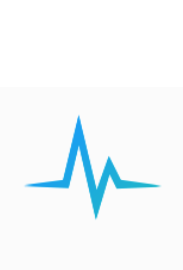
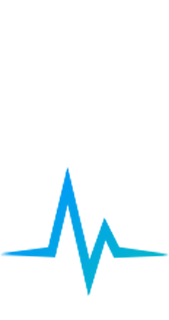
fix(onboarding): Minor asset tweaks

Changed region(s): [[0.0, 0.4148, 1.0, 0.9185]]

diff --git a/internal_packages/onboarding/lib/page-tutorial.jsx b/internal_packages/onboarding/lib/page-tutorial.jsx
@@ -7,7 +7,7 @@ const Steps = [
     id: 'people',
     title: 'Compose with context',
     image: 'feature-people@2x.png',
-    description: "N1 shows you everything about your contacts right inside your inbox. See LinkedIn profiles, Twitter bios, and more.",
+    description: "N1 shows you everything about your contacts right inside your inbox. See LinkedIn profiles, Twitter bios, message history, and more.",
     x: 96.6,
     y: 1.3,
     xDot: 93.5,
@@ -16,9 +16,9 @@ const Steps = [
   {
     seen: false,
     id: 'activity',
-    title: 'Track activity',
+    title: 'Track opens and clicks',
     image: 'feature-activity@2x.png',
-    description: "With activity tracking, you'll know as soon as someone reads your message. Sending to a group? We'll show which recipients opened your email, so you can follow up with precision.",
+    description: "With activity tracking, you’ll know as soon as someone reads your message. Sending to a group? N1 shows you which recipients opened your email so you can follow up with precision.",
     x: 12.8,
     y: 1,
     xDot: 15,
@@ -27,23 +27,23 @@ const Steps = [
   {
     seen: false,
     id: 'snooze',
-    title: 'Time is everything',
+    title: 'Send on your own schedule',
     image: 'feature-snooze@2x.png',
-    description: "Snooze emails to any time that suits you. Schedule emails to be sent at the ideal time. N1 makes it easy to control the fabric of spacetime.",
+    description: "Snooze emails to any time that suits you. Schedule messages to send at the ideal time. N1 makes it easy to control the fabric of spacetime!",
     x: 5.5,
     y: 23.3,
-    xDot: 8,
+    xDot: 10,
     yDot: 25.9,
   },
   {
     seen: false,
     id: 'composer',
-    title: 'Composer Power',
+    title: 'Eliminate hacky extensions',
     image: 'feature-composer@2x.png',
-    description: "Use N1's powerful composer to embed calendar invitations, propose times to meet with recipients, insert templates, and more.",
-    x: 76.6,
+    description: "Embed calendar invitations, propose meeting times, use quick reply templates, send mass emails with mail merge, and more—all directly from N1’s powerful composer.",
+    x: 60.95,
     y: 66,
-    xDot: 74.9,
+    xDot: 60.3,
     yDot: 65.0,
   },
 ];
@@ -126,7 +126,7 @@ export default class TutorialPage extends React.Component {
             </div>
           </div>
           <div className="right">
-            <img src={`nylas://onboarding/assets/${current.image}`} style={{zoom: 0.6, margin: 'auto'}} role="presentation" />
+            <img src={`nylas://onboarding/assets/${current.image}`} style={{zoom: 0.5, margin: 'auto'}} role="presentation" />
             <h2>{current.title}</h2>
             <p>{current.description}</p>
           </div>

diff --git a/internal_packages/onboarding/stylesheets/onboarding.less b/internal_packages/onboarding/stylesheets/onboarding.less
@@ -433,7 +433,7 @@
       transition: all ease-in-out 400ms;
 
       h2 {
-        font-size: 31px;
+        font-size: 28px;
         font-weight: 300;
         text-align: center;
       }
